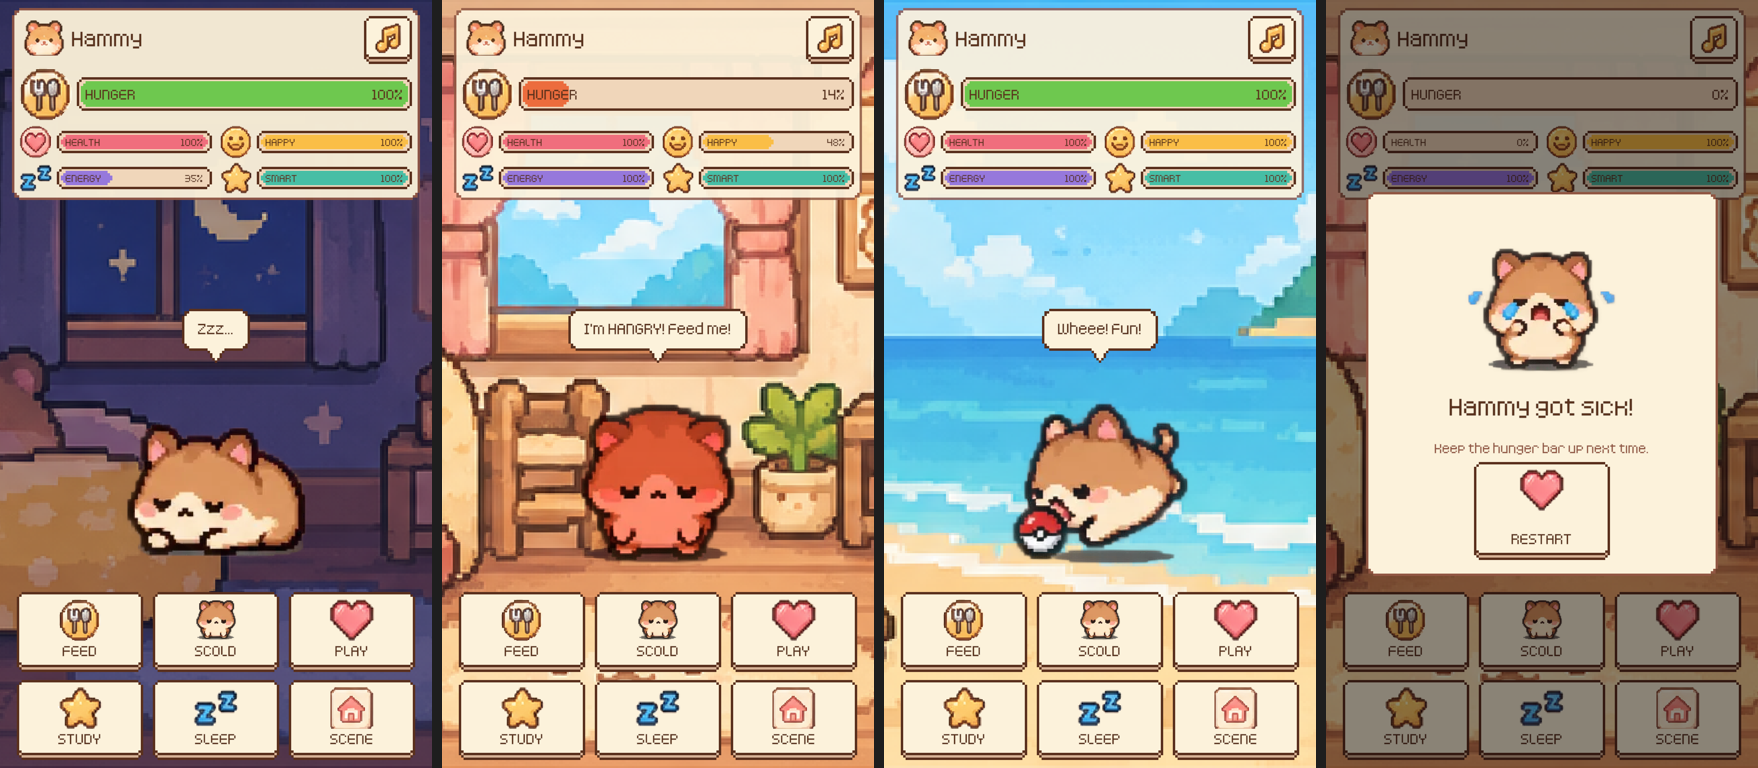
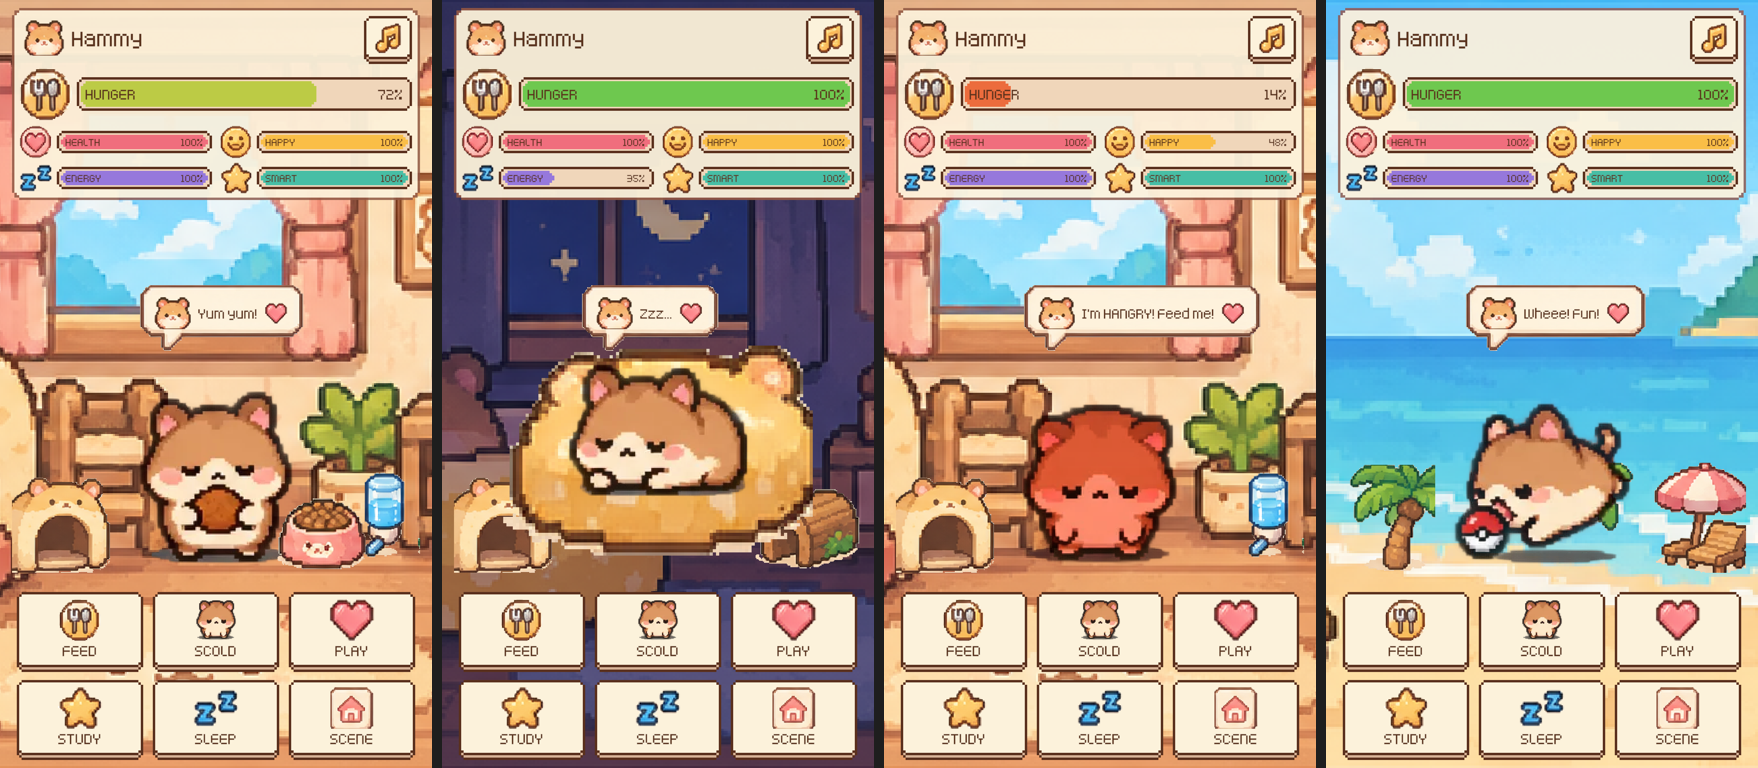
Update README and screenshots for props and pack-style bubble

diff --git a/README.md b/README.md
@@ -7,13 +7,10 @@ and it gets **sick**.
 
 <p align="center"><img src="Docs/screenshot.png" alt="Game screen" width="320"></p>
 
-<p align="center"><img src="Docs/states_overview.png" alt="Sleeping, hangry, playing and sick states" width="720"></p>
-
-<p align="center"><img src="Docs/screenshot_landscape.png" alt="Wide window: UI stays a centered phone column" width="480"></p>
+<p align="center"><img src="Docs/states_overview.png" alt="Eating, sleeping, hangry and playing states" width="720"></p>
 
 > Screenshots generated with **Tamagotchi → Capture Screenshot** / **Capture State Screenshots**
-> (states left to right: sleeping, hangry, playing at the beach, sick) / **Capture Landscape Check**
-> (a wide window: the UI stays a centered phone column). A GIF of the gameplay will be added later.
+> (states left to right: eating, sleeping in the bed, hangry, playing at the beach).
 
 ## Status
 
@@ -42,20 +39,23 @@ and it gets **sick**.
 - **Full-screen scenes:** the background fills the whole screen behind the UI. The **Scene** button
   cycles through 6 pixel-art backgrounds (default: cozy home). The stats sit at the top and the
   buttons at the bottom, leaving the middle clear so nothing covers the pet.
-- **Speech bubble** above the pet's head reacts to every action ("Yum yum!", "Too tired to study...").
+- **Props from the asset pack:** the food bowl appears while eating, the pet sleeps in the soft bed, and
+  every scene has matching props beside the pet (hamster house + water bottle at home, sign + fence in
+  the garden, palm tree + umbrella at the beach, tree stump + rocks by the stream, plants on the rooftop).
+- **Speech bubble** in the asset pack's style (hamster face, text, heart) above the pet reacts to every action ("Yum yum!", "Too tired to study...").
   Messages fade after a few seconds; warnings like **"I'm HANGRY! Feed me!"** stay until fixed.
 - **Animated pet with a state machine** (`PetController`). It reacts visibly to every button and to its stats:
 
   | State | When | Animation and effect |
   |-------|------|-------------|
   | Idle | Nothing special going on | `idle` frames, slow loop |
-  | Eating | FEED (2 s) | `eating` frames + little hops |
+  | Eating | FEED (2 s) | `eating` frames + little hops, food bowl beside the pet |
   | Studying | STUDY (2 s) | `studying` frames |
   | Playing → Happy | PLAY (2 s, then 1.2 s happy) | `playing` then `happy` frames + bouncing |
   | Sad | SCOLD (2 s), Happiness below 25%, or the pet refuses (too tired) | `sad` frames |
   | Crying | Health below 25% | `crying` frames |
   | Hangry | Hunger below 25% | `sad` frames + red pulse + angry shake |
-  | Sleeping | SLEEP | `sleeping` frames; the screen dims and switches to the moonlit bedroom |
+  | Sleeping | SLEEP | `sleeping` frames in the soft bed; the screen dims and switches to the moonlit bedroom |
   | Sick | Health 0 / starving too long | `crying` frames + green tint; game-over card (animated) |
 
   Priority when several apply: Sick > Sleeping > Hangry > Crying > Sad > Idle. Button reactions play on
@@ -126,6 +126,7 @@ Assets/
     UI/SpeechBubble.cs  pop-in speech bubble above the pet (normal or sticky messages)
     UI/SafeArea.cs    keeps UI clear of notches and cut-outs
     UI/PortraitFrame.cs keeps the UI a centered 9:16 column in wide windows
+    World/SceneDecor.cs  props beside the pet that match the current background
     World/BackgroundSwitcher.cs  full-screen background: Scene button cycling + temporary override (used by Sleep)
     Pet/PetStats.cs        the five stats: decay, actions, sleep, health, hangry, sick
     Pet/PetStatsConfig.cs  ScriptableObject with all tuning numbers
@@ -151,7 +152,7 @@ will be listed here with its source and license._
 | Asset | Source | License |
 |-------|--------|---------|
 | Hamster sprites, backgrounds, props, UI sprites | Supplied by the project owner (tamagotchi asset pack) | Project owner's own assets |
-| `Assets/Art/UI/Icons/*`, `Assets/Art/UI/Generated/*` (incl. speech bubble) | Derived from / drawn to match the pack by `Tools/make_ui_sprites.py` | Same as above |
+| `Assets/Art/UI/Icons/*`, `Assets/Art/UI/Generated/*` (incl. the speech bubble made from the pack's `chat_bubble.png`) | Derived from / drawn to match the pack by `Tools/make_ui_sprites.py` | Same as above |
 | `Assets/Art/UI/Buttons/star.png`, `music.png`, `sleep_z.png` | Re-cut from the pack's `Source/complete_generated_asset_sheet.png` (the pack's own copies are clipped) | Same as above |
 | `Assets/Art/Fonts/KenneyPixel.ttf` | [Kenney Fonts](https://kenney.nl/assets/kenney-fonts) by Kenney | CC0 1.0 (`KenneyFonts-License.txt`) |
 | `Assets/TextMesh Pro/*` (LiberationSans etc.) | Unity TextMesh Pro essential resources | Unity Companion License / SIL OFL (LiberationSans) |
